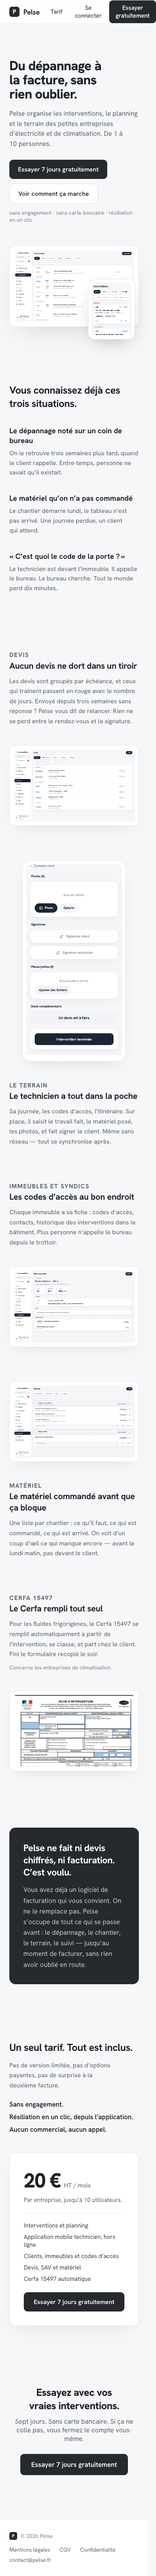
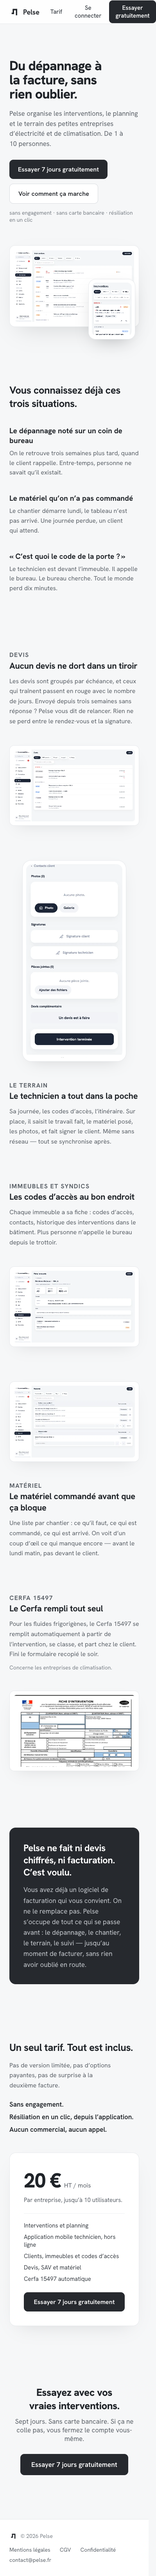
La page s'élargit sur les grands écrans, les captures deviennent lisibles
La maquette fixe la page à 1120 px. Sur un écran de 1920, ça laisse 400 px de
vide de chaque côté pendant que les captures d'application, elles, sont trop
petites pour qu'on y lise quoi que ce soit — et c'est précisément ce qu'on
demande au visiteur de regarder.

Au-delà de 1400 px, la page occupe 1400. La capture de l'accroche passe de
1072 à 1326 px de large : les libellés, les heures et les noms de clients
deviennent lisibles.

Les PARAGRAPHES ne suivent pas : ils restent bornés à 64 caractères. Une ligne
de 1400 px serait pénible — l'œil perd le début de la ligne suivante. C'est la
largeur des IMAGES qu'on gagne, pas celle du texte. Dans les blocs de
fonctionnalité, la colonne de texte garde sa part et l'image prend le reste.

En dessous de 1400 px, rien ne change : les rendus en 380, 768 et 1280 sont
identiques à avant.

diff --git a/app/globals.css b/app/globals.css
@@ -50,6 +50,7 @@
   --surface:    #FFFFFF;
   --survol:     #F0F1F3;
   --large:      1120px;   /* largeur utile de la page   */
+  --texte-max:  64ch;     /* longueur de ligne confortable */
 }
 
 * { box-sizing: border-box; }
@@ -127,8 +128,24 @@ img { display: block; max-width: 100%; height: auto; }
 .btn--bloc { width: 100%; }
 .btn--xl { font-size: 17px; padding: 16px 28px; border-radius: 10px; }
 
-/* ---------- Sections ---------- */
+/* ---------- Sections ----------
+   La maquette fixe 1120 px. Sur un grand écran, ça laisse 400 px de vide de
+   chaque côté pendant que les captures d'application, elles, sont trop
+   petites pour qu'on y lise quoi que ce soit — et c'est précisément ce qu'on
+   demande au visiteur de regarder.
+   La page s'élargit donc avec l'écran, jusqu'à 1400 px. Les PARAGRAPHES, eux,
+   restent bornés : une ligne de 1400 px serait illisible, l'œil perd le
+   début de la ligne suivante. C'est la largeur des IMAGES qu'on gagne, pas
+   celle du texte. */
 .section { max-width: var(--large); margin: 0 auto; padding: 72px 24px; }
+
+@media (min-width: 1400px) {
+  :root { --large: 1400px; }
+  /* La colonne de texte des blocs de fonctionnalité ne suit pas : elle garde
+     sa part, l'image prend le reste. */
+  .fonction__texte { flex: 1 1 340px; max-width: 480px; }
+  .fonction__visuel { flex: 2 1 560px; }
+}
 .section--accroche { padding: 88px 24px 72px; }
 .section--fonctions { padding: 72px 24px; display: flex; flex-direction: column; gap: 88px; }
 .section--essai { padding: 80px 24px 112px; text-align: center; }
@@ -179,7 +196,8 @@ img { display: block; max-width: 100%; height: auto; }
 }
 .grille-3 { display: grid; grid-template-columns: repeat(auto-fit, minmax(260px, 1fr)); gap: 40px; }
 .grille-3 h3 { margin: 0 0 8px; font-size: 19px; font-weight: 700; }
-.grille-3 p { margin: 0; font-size: 16px; line-height: 1.55; color: var(--gris); text-wrap: pretty; }
+.grille-3 p { margin: 0; font-size: 16px; line-height: 1.55; color: var(--gris);
+               text-wrap: pretty; max-width: var(--texte-max); }
 
 /* ---------- Blocs de fonctionnalité ---------- */
 .fonction { display: flex; flex-wrap: wrap; align-items: center; gap: 48px; }
@@ -204,7 +222,8 @@ img { display: block; max-width: 100%; height: auto; }
   margin: 0 0 12px; font-size: clamp(22px, 2.6vw, 28px);
   letter-spacing: -.015em; font-weight: 700;
 }
-.fonction p { margin: 0; font-size: 16px; line-height: 1.6; color: var(--gris); text-wrap: pretty; }
+.fonction p { margin: 0; font-size: 16px; line-height: 1.6; color: var(--gris);
+               text-wrap: pretty; max-width: var(--texte-max); }
 .fonction__note { margin: 10px 0 0 !important; font-size: 14px !important; color: var(--gris-clair) !important; }
 
 .cadre--fonction { border-radius: 12px; padding: 10px; box-shadow: 0 16px 40px -20px rgba(31, 35, 40, .15); }
